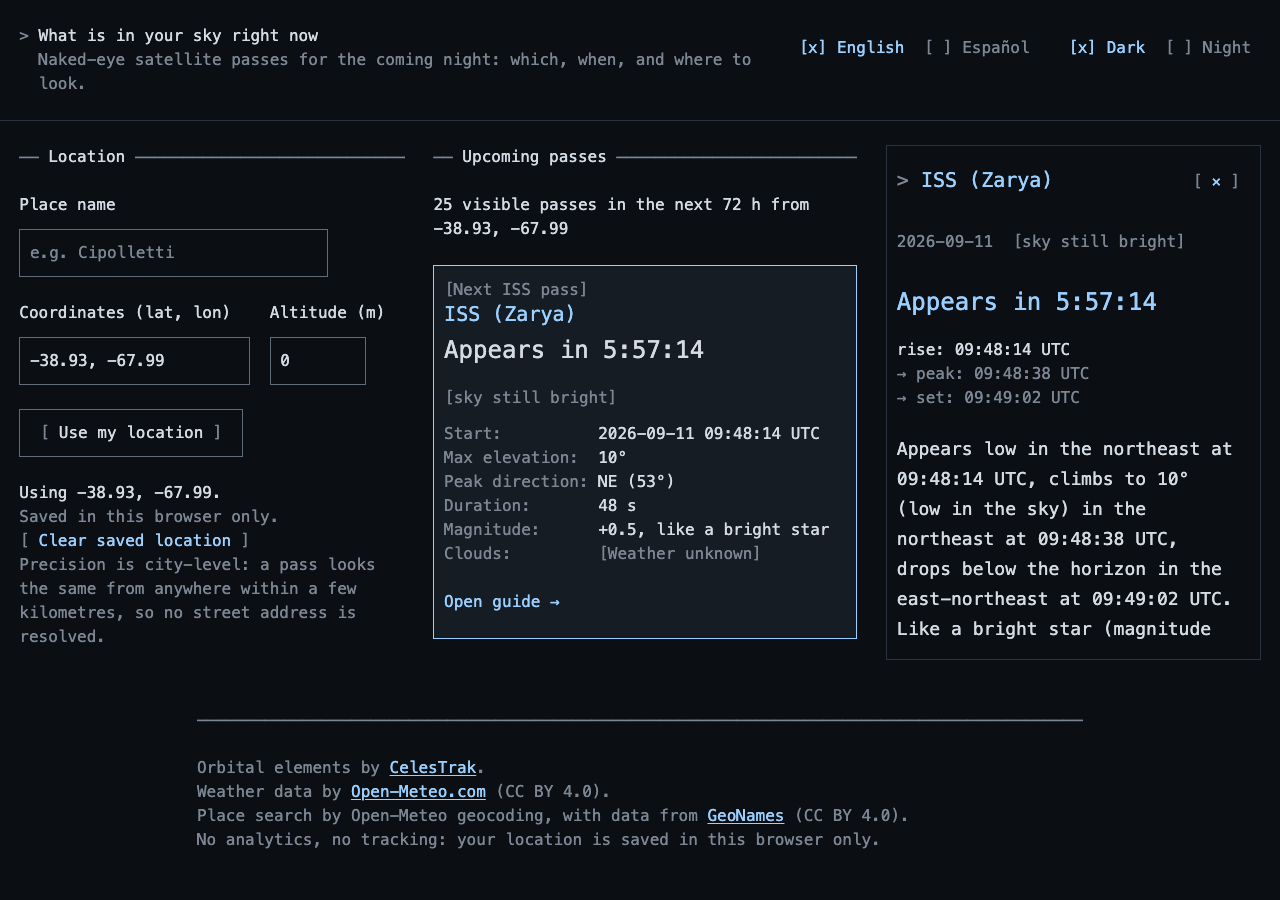
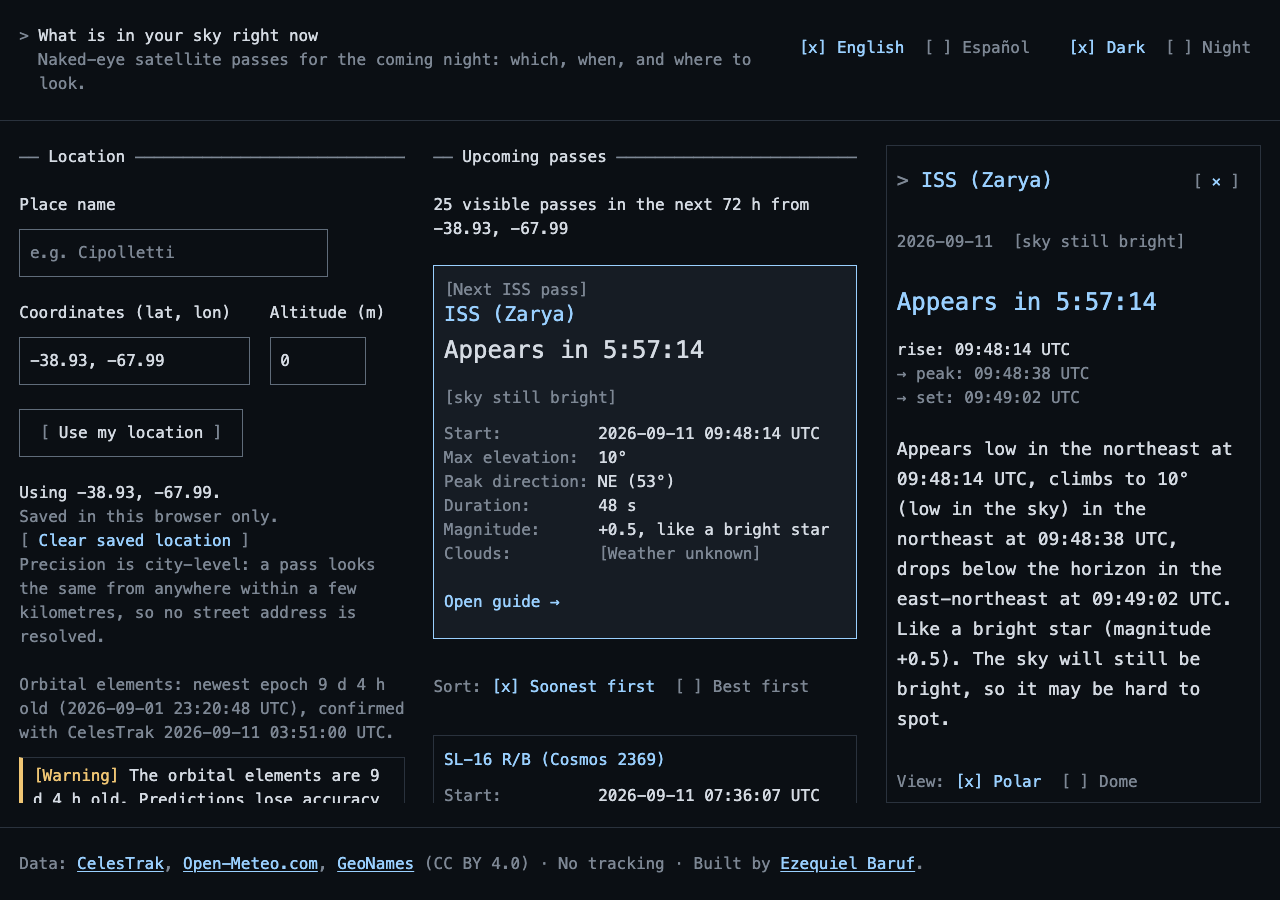
R23: the wide footer is one row, and it says who made the page (D-120, FR-X-2)
D-119's shell holds the footer on screen for as long as a pass is open, and
four rows of provenance is not what that space is for — on a 900 px viewport
they were most of what the three columns lost. The footer now has two forms,
picked by the layout the way `PassDetail` picks its two shells (D-72):
compact keeps the four sentences at the bottom of a page that scrolls, wide
says the same thing in one row.

What the short form does not drop is the attribution. Every provider is still
named and still linked, and CC BY 4.0 is still called by name — that is the
condition the geocoding data is used under, not decoration. The row also
carries the author's credit, linked to the profile, which is new in FR-X-2:
until now it named only the data.

Two smaller things came with it. `margin: 0 auto` centres the 80-cell frame
in compact and is a no-op at wide in normal flow — but inside D-119's grid an
auto margin turns off the stretch a grid item gets by default, so the footer
shrank to its own text and sat in the middle of the page. That was a
regression from the previous commit and is why this was noticed. And the
character rule above the credits is a fixed 92-character string, the old
frame's width, which stops short of a viewport that no longer has a frame; at
wide it is the 1 px line in the rule colour that every card is already drawn
with, which FR-X-6 allows and which is as wide as what contains it.

Tests: the footer's own suite gains the credit, the one-row form with every
[…]

Changed region(s): [[0.0, 0.7156, 0.9375, 0.9644], [0.75, 0.84, 0.8125, 0.8711], [0.8438, 0.84, 0.875, 0.8711]]

diff --git a/src/ui/components/common/Footer.test.tsx b/src/ui/components/common/Footer.test.tsx
@@ -1,11 +1,18 @@
-/** TASKS R12 (FR-X-2): the footer carries the three attribution sentences, each source linked, and the privacy note. R17: in whichever language is active, with the provider names untranslated (FR-I18N-6). */
-import { render, screen } from '@testing-library/react';
+/** TASKS R12 (FR-X-2): the footer carries the three attribution sentences, each source linked, and the privacy note. R17: in whichever language is active, with the provider names untranslated (FR-I18N-6). R23 (D-120): and the author's credit, in both of the two forms the layout picks between. */
+import { act, render, screen } from '@testing-library/react';
 import { axe } from 'jest-axe';
-import { describe, expect, it } from 'vitest';
+import { afterEach, describe, expect, it } from 'vitest';
 import { en } from '../../../i18n/en';
 import { es } from '../../../i18n/es';
 import { I18nProvider } from '../../../i18n/useT';
+import { stubMatchMedia, type MatchMediaStub } from '../../../../tests/support/matchMedia';
 import { Footer } from './Footer';
+
+let media: MatchMediaStub | null = null;
+afterEach(() => {
+  media?.restore();
+  media = null;
+});
 
 const sentence = (text: { before: string; link: string; after: string }): string => `${text.before}${text.link}${text.after}`;
 
@@ -18,6 +25,9 @@ describe('<Footer>', () => {
     expect(screen.getByRole('link', { name: 'CelesTrak' })).toHaveAttribute('href', 'https://celestrak.org/');
     expect(screen.getByRole('link', { name: 'Open-Meteo.com' })).toHaveAttribute('href', 'https://open-meteo.com/');
     expect(screen.getByRole('link', { name: 'GeoNames' })).toHaveAttribute('href', 'https://www.geonames.org/');
+    // D-120: whose page this is, linked to the profile.
+    expect(footer).toHaveTextContent(sentence(en.footer.credit));
+    expect(screen.getByRole('link', { name: 'Ezequiel Baruf' })).toHaveAttribute('href', 'https://github.com/CipoBaruf');
     expect(await axe(container)).toHaveNoViolations();
   });
 
@@ -32,6 +42,36 @@ describe('<Footer>', () => {
     expect(footer).toHaveTextContent(es.footer.privacy);
     expect(footer).not.toHaveTextContent(en.footer.privacy);
     expect(screen.getByRole('link', { name: 'CelesTrak' })).toHaveAttribute('href', 'https://celestrak.org/');
+  });
+
+  // D-120: wide says the same thing in one row, and may not drop the attribution doing it.
+  it('condenses to one row when the layout is wide, every source still named and linked', async () => {
+    media = stubMatchMedia(1280);
+    const { container } = render(<Footer />);
+    const footer = screen.getByRole('contentinfo');
+    expect(footer).toHaveAttribute('data-form', 'short');
+    expect(footer.querySelectorAll('p')).toHaveLength(1);
+    for (const name of ['CelesTrak', 'Open-Meteo.com', 'GeoNames', 'Ezequiel Baruf']) {
+      expect(screen.getByRole('link', { name })).toBeInTheDocument();
+    }
+    expect(screen.getByRole('link', { name: 'Ezequiel Baruf' })).toHaveAttribute('href', 'https://github.com/CipoBaruf');
+    // The licence the geocoding data is used under is still named.
+    expect(footer).toHaveTextContent('CC BY 4.0');
+    expect(footer).toHaveTextContent(en.footer.short.privacy);
+    // The four long sentences are gone, not merely hidden.
+    expect(footer).not.toHaveTextContent(en.footer.privacy);
+    expect(await axe(container)).toHaveNoViolations();
+  });
+
+  it('goes back to the four sentences when the viewport narrows again', () => {
+    media = stubMatchMedia(1280);
+    render(<Footer />);
+    expect(screen.getByRole('contentinfo')).toHaveAttribute('data-form', 'short');
+    act(() => {
+      media?.setWidth(390);
+    });
+    expect(screen.getByRole('contentinfo')).toHaveAttribute('data-form', 'full');
+    expect(screen.getByRole('contentinfo')).toHaveTextContent(en.footer.privacy);
   });
 
   it('is inert while the detail sheet is up', () => {

diff --git a/src/ui/components/common/Footer.tsx b/src/ui/components/common/Footer.tsx
@@ -1,5 +1,6 @@
 import type { LinkedText } from '../../../i18n/messages';
 import { useT } from '../../../i18n/useT';
+import { useLayoutMode } from '../../hooks/useLayoutMode';
 import styles from './Footer.module.css';
 
 /**
@@ -12,11 +13,22 @@ import styles from './Footer.module.css';
  * them are never translated (FR-I18N-6). The links are navigation targets,
  * never fetched (FR-X-3: the app connects to CelesTrak and Open-Meteo only,
  * see `tests/deploy/headers.test.ts`).
+ *
+ * R23 (D-120): two forms of the same credits, chosen by the layout the way
+ * `PassDetail` chooses its two shells (D-72). Compact keeps the four
+ * sentences at the bottom of a page that scrolls. Wide says the same thing in
+ * one row, because D-119's shell holds the footer on screen for as long as a
+ * pass is open and four rows of provenance are not what that space is for.
+ * What the short form may not drop is the attribution itself: every provider
+ * is still named and still linked, and the CC BY 4.0 licence is still called
+ * by name — that is the condition the data is used under, not decoration.
  */
 export const ATTRIBUTION_URLS = {
   celestrak: 'https://celestrak.org/',
   openMeteo: 'https://open-meteo.com/',
   geonames: 'https://www.geonames.org/',
+  /** Not an attribution: whose page this is (FR-X-2, amended). */
+  author: 'https://github.com/CipoBaruf',
 } as const;
 
 export interface FooterProps {
@@ -24,24 +36,54 @@ export interface FooterProps {
   inert?: boolean;
 }
 
-function Attribution({ text, href }: { text: LinkedText; href: string }) {
+function Linked({ text, href }: { text: LinkedText; href: string }) {
   return (
-    <p className={styles.line}>
+    <>
       {text.before}
       <a href={href}>{text.link}</a>
       {text.after}
+    </>
+  );
+}
+
+function Attribution({ text, href }: { text: LinkedText; href: string }) {
+  return (
+    <p className={styles.line}>
+      <Linked text={text} href={href} />
     </p>
   );
 }
 
 export function Footer({ inert = false }: FooterProps) {
   const t = useT();
+  const wide = useLayoutMode() === 'wide';
+
+  if (wide) {
+    return (
+      <footer inert={inert} className={styles.footer} data-form="short">
+        <p className={styles.line}>
+          {t.footer.short.sources}{' '}
+          <a href={ATTRIBUTION_URLS.celestrak}>CelesTrak</a>
+          {', '}
+          <a href={ATTRIBUTION_URLS.openMeteo}>Open-Meteo.com</a>
+          {', '}
+          <a href={ATTRIBUTION_URLS.geonames}>GeoNames</a> {t.footer.short.licence}
+          <span className={styles.dot}>·</span>
+          {t.footer.short.privacy}
+          <span className={styles.dot}>·</span>
+          <Linked text={t.footer.credit} href={ATTRIBUTION_URLS.author} />
+        </p>
+      </footer>
+    );
+  }
+
   return (
-    <footer inert={inert} className={styles.footer}>
+    <footer inert={inert} className={styles.footer} data-form="full">
       <Attribution text={t.footer.celestrak} href={ATTRIBUTION_URLS.celestrak} />
       <Attribution text={t.footer.openMeteo} href={ATTRIBUTION_URLS.openMeteo} />
       <Attribution text={t.footer.geonames} href={ATTRIBUTION_URLS.geonames} />
       <p className={styles.line}>{t.footer.privacy}</p>
+      <Attribution text={t.footer.credit} href={ATTRIBUTION_URLS.author} />
     </footer>
   );
 }

diff --git a/tests/e2e/desktop.spec.ts b/tests/e2e/desktop.spec.ts
@@ -148,6 +148,23 @@ test('wide: two columns, the guide beside a live list, Escape and the hash (FR-D
   expect(Math.abs(leftNow.height - rightNow.height)).toBeLessThanOrEqual(1);
   expect(leftNow.y + leftNow.height).toBeLessThanOrEqual(WIDE.height + 1);
 
+  // D-120: the footer is one row, left-aligned with the columns above it (an
+  // auto margin inside the shell's grid had it shrink to its text and centre),
+  // and it still names and links every source it is used under.
+  const footer = page.getByRole('contentinfo');
+  await expect(footer).toHaveAttribute('data-form', 'short');
+  expect(await footer.locator('p').count()).toBe(1);
+  // The line itself, not the footer's border box: both carry the same two
+  // cells of side padding, and it is the text that has to line up.
+  const [footerLine, leftBox2] = await Promise.all([footer.locator('p').boundingBox(), page.getByTestId('col-left').boundingBox()]);
+  if (!footerLine || !leftBox2) throw new Error('the footer is not laid out');
+  expect(Math.abs(footerLine.x - leftBox2.x)).toBeLessThanOrEqual(1);
+  for (const name of ['CelesTrak', 'Open-Meteo.com', 'GeoNames']) {
+    await expect(footer.getByRole('link', { name })).toBeVisible();
+  }
+  await expect(footer).toContainText('CC BY 4.0');
+  await expect(footer.getByRole('link', { name: 'Ezequiel Baruf' })).toHaveAttribute('href', 'https://github.com/CipoBaruf');
+
   // The guide's body scrolls itself, and its head stays where it is while it does.
   const body = panel.getByTestId('guide-body');
   // It opens at the top and its first line is whole: nothing inside may start

diff --git a/src/ui/components/common/Footer.module.css b/src/ui/components/common/Footer.module.css
@@ -16,3 +16,26 @@
 .line {
   margin: 0;
 }
+
+/* R23 (D-120): the short form is one row that wraps rather than overflows —
+   the Spanish sentence is the longer of the two and 960 px is the narrowest
+   wide viewport. The separators are their own elements so that the spaces
+   around them survive the wrap. */
+.footer[data-form='short'] {
+  padding-bottom: var(--row);
+  /* The character rule above is a fixed 92-character string, which was the
+     80-cell frame's width and stops short of a viewport that no longer has
+     one. FR-X-6 takes either a plain-character border or a box-drawing one,
+     and the 1 px line in the rule colour is the box-drawing weight every card
+     on the page is already drawn at (`global.css`) — the difference is that
+     it is as wide as whatever contains it. */
+  border-top: 1px solid var(--rule);
+}
+
+.footer[data-form='short']::before {
+  content: none;
+}
+
+.dot {
+  padding: 0 var(--cell);
+}

diff --git a/src/i18n/en.ts b/src/i18n/en.ts
@@ -297,5 +297,14 @@ export const en = {
     openMeteo: { before: 'Weather data by ', link: 'Open-Meteo.com', after: ' (CC BY 4.0).' } satisfies LinkedText,
     geonames: { before: 'Place search by Open-Meteo geocoding, with data from ', link: 'GeoNames', after: ' (CC BY 4.0).' } satisfies LinkedText,
     privacy: 'No analytics, no tracking: your location is saved in this browser only.',
+    credit: { before: 'Built by ', link: 'Ezequiel Baruf', after: '.' } satisfies LinkedText,
+    /* R23 (D-120): the wide footer says the same in one row. The provider
+       names carry the credit on their own, the licence is still named, and
+       the privacy note keeps its subject. */
+    short: {
+      sources: 'Data:',
+      licence: '(CC BY 4.0)',
+      privacy: 'No tracking',
+    },
   },
 };

diff --git a/src/i18n/es.ts b/src/i18n/es.ts
@@ -274,5 +274,11 @@ export const es: Messages = {
     openMeteo: { before: 'Datos meteorológicos de ', link: 'Open-Meteo.com', after: ' (CC BY 4.0).' },
     geonames: { before: 'Búsqueda de lugares por la geocodificación de Open-Meteo, con datos de ', link: 'GeoNames', after: ' (CC BY 4.0).' },
     privacy: 'Sin analítica ni rastreo: la ubicación se guarda solo en este navegador.',
+    credit: { before: 'Hecho por ', link: 'Ezequiel Baruf', after: '.' },
+    short: {
+      sources: 'Datos:',
+      licence: '(CC BY 4.0)',
+      privacy: 'Sin rastreo',
+    },
   },
 };

diff --git a/src/ui/styles/global.css b/src/ui/styles/global.css
@@ -58,6 +58,12 @@ main {
   main,
   footer {
     max-width: none;
+    /* The `margin: 0 auto` above centres the 80-cell frame in compact. Here
+       there is no frame to centre, and inside D-119's grid an auto margin is
+       not a no-op: it turns off the stretch a grid item gets by default, so
+       the footer shrank to its own text and sat in the middle of the page.
+       Wide is left-aligned like the columns above it. */
+    margin-inline: 0;
   }
 
   /* R23 (D-119). With a pass open the page is a shell exactly one viewport

diff --git a/PLAN.md b/PLAN.md
@@ -292,6 +292,7 @@ These plan SPEC v1.0 (V1-1..V1-11). Nothing here is implemented yet; each decisi
 - **D-117 — The compact sheet is portaled to the body, so that one component can pick both shells.** D-72 asks for one guide component with two wrappers, and FR-DESK-3 puts the wide one *inside* the right column — but the compact sheet needs the page around it to be `inert`, and a sheet rendered inside `main` would be inert with it. `PassDetail` is therefore rendered once, in the right column, and `createPortal`s its sheet to `document.body` when the layout is compact; the panel renders in place when it is wide. Nothing about the sheet changes — it was already `position: fixed`, so its box never depended on where it sat in the DOM — and `App` goes on marking header, main and footer inert around it. One consequence for tests: RTL's `container` no longer holds the sheet, so the three `axe` runs that cover it take `document.body` instead, which is strictly more of the page than they saw before.
 - **D-118 — The wide guide is a labelled region, not a dialog.** The compact sheet is `role="dialog" aria-modal="true"` because it covers the page: nothing behind it can be reached, and that is what the role promises. The wide panel promises the opposite — FR-DESK-3's whole point is that the list stays beside it, scrollable and clickable — so calling it a dialog would tell a screen-reader user the page was blocked when it is not, and a non-modal `dialog` is a distinction almost nothing conveys. It is a `<section>` with a label, like the three regions already on the screen; `<aside>` would be the better tag but axe's own best-practice rule rejects a complementary landmark nested in `main`. The label is "Guide: <name>" rather than the name alone, because the card for the same pass is still on screen one column to the left and two regions with one name is a worse answer than a longer one. Focus still moves to the heading on open and `Esc` still closes: those belong to the guide, not to the shell, and `PassDetail` owns them for both.
 - **D-119 — With a pass open the wide page is one viewport high, and each pane scrolls itself.** FR-DESK-3 says the list stays scrollable beside the guide, and the first implementation gave the list a `max-height` of 34 rows and the guide none at all. That is two scrollbars that do not agree: the list's, fixed at 816 px, and the page's, driven by whichever of the three columns is longest — usually the guide, which carries the countdown, the chart and the numbers. The reader scrolls the page to reach the bottom of the guide and the list scrolls out from under them; the left column, packed to the top by `align-items: start`, leaves a screen of dead space behind. A cap written in rows is also right at exactly one viewport height and wrong at every other: 816 px overshoots a 768 px laptop, so the page scrolled *underneath* a list that was already scrolling, and wastes the bottom of a tall screen. So the height comes from the viewport instead. `#root` becomes a `100dvh` grid of header, main and footer whenever a pass is open, `main` stretches both columns to its middle row, and the three panes that can outgrow it — the left column, the list, and the guide's body under a head that stays — each carry their own `overflow-y`. Three consequences worth naming. The shell is scoped to `:has([data-guide='open'])`, because with no pass open the page is an ordinary long document and should scroll like one; nothing about compact changes, and the sheet is still `position: fixed` over a page whose scroll it locks (D-117). `100dvh` and not `100vh`: on a phone in landscape past the breakpoint the dynamic unit is the one that does not hide the footer behind the browser chrome. And the guide's head is pinned rather than scrolled away, because the close control is what someone reaches for after reading to the bottom of a long guide.
+- **D-120 — The wide footer is one row, and it says who made the page.** D-119's shell holds the footer on screen for as long as a pass is open, and four rows of provenance is not what that space is for — on a 900 px viewport they were most of what the three columns lost. So the footer has two forms, chosen by the layout the way `PassDetail` chooses its two shells (D-72): compact keeps the four sentences at the bottom of a page that scrolls, and wide says the same thing in one row. What the short form may not drop is the attribution itself. Every provider is still named and still linked, and CC BY 4.0 is still called by name: that is the condition the geocoding data is used under, not decoration, and a footer that credits nobody to save a row would be the one change here that is not ours to make. The row also carries the author's credit, linked to the profile — new in FR-X-2, which until now named only the data. Two smaller things came with it. `margin: 0 auto` centres the 80-cell frame in compact and is a no-op at wide in normal flow, but inside D-119's grid an auto margin turns off the stretch a grid item gets by default: the footer shrank to its own text and sat in the middle of the page, which is how this was noticed. And the character rule above the credits is a fixed 92-character string — the 80-cell frame's width — which stops short of a viewport that no longer has a frame; at wide it is the 1 px line in the rule colour that every card on the page is already drawn with, which FR-X-6 allows in as many words and which is as wide as whatever contains it.
 
 ---
 
@@ -1120,7 +1121,7 @@ No i18n, routing, date or state dependency is added for v1: language is two type
 | FR-X-5 | component tests with `jest-axe`; chart text duplication in `PassNumbers.tsx` |
 | Spec §5.6 clock skew | **Not in MVP** (D-11) |
 | **v1** — FR-I18N-1..6 | `src/i18n/*` (D-69), `lib/timeFormat.ts`, `lib/phrases.ts` (returns keys, not sentences), `ui/components/common/LanguageToggle.tsx`, `main.tsx` (D-70) |
-| FR-DESK-1..4 | `ui/styles/global.css` + `ui/App.module.css` + `tests/styles` (D-71), `lib/layout.ts` + `ui/hooks/useLayoutMode.ts` (D-116), `ui/App.tsx`, `ui/components/guide/GuidePanel.tsx` (D-72, D-117, D-118, D-119), `lib/shortcuts.ts`, `ui/components/common/ShortcutsOverlay.tsx` (D-73) |
+| FR-DESK-1..4 | `ui/styles/global.css` + `ui/App.module.css` + `tests/styles` (D-71), `lib/layout.ts` + `ui/hooks/useLayoutMode.ts` (D-116), `ui/App.tsx`, `ui/components/guide/GuidePanel.tsx` (D-72, D-117, D-118, D-119), `ui/components/common/Footer.tsx` (D-120), `lib/shortcuts.ts`, `ui/components/common/ShortcutsOverlay.tsx` (D-73) |
 | FR-DESK-5 | `docs/mockups/` (the owner-approved reference), `visual-review` captures at 1280 px |
 | FR-DOME-1..7 | `dome/camera.ts` (`layoutFor` from width and height), `dome/palette.ts`, `dome/domeGeometry.ts`, `dome/SkyDome.tsx`, `polar/SkyPolar.tsx` (same markers and palette) — §8.7 |
 | FR-DOME-8 | `spike/dome-composition/` and `docs/dome-composition/` first; then `dome/domeLayers.ts` + the two scenes in `SkyDome.tsx` (D-74) |

diff --git a/SPEC.md b/SPEC.md
@@ -249,7 +249,7 @@ A pass is **visible** when, for a contiguous interval of time, all of the follow
 
 - **FR-X-1** Mobile-first responsive layout; dark theme by default; optional red-tint "night vision" mode (v1, specified in §4.14). *(amended v1)* "Responsive" includes the wide layout of §4.8.
 - **FR-X-6** **Visual identity: monospace / terminal aesthetic across the whole UI** — a monospace typeface everywhere, character-grid-aligned layout where practical, box-drawing or plain-character borders, restrained colour on a dark ground, no photographic imagery. The ASCII sky dome must read as a natural part of the interface, not a widget dropped into a conventional web page.
-- **FR-X-2** Every external data source MUST be credited in a footer (CelesTrak; Open-Meteo for weather and geocoding, whose geocoding data derives from GeoNames) as their terms require. OpenStreetMap/Nominatim attribution is added in v1 when the proxy introduces it.
+- **FR-X-2** Every external data source MUST be credited in a footer (CelesTrak; Open-Meteo for weather and geocoding, whose geocoding data derives from GeoNames) as their terms require. OpenStreetMap/Nominatim attribution is added in v1 when the proxy introduces it. The footer MUST also name who made the page, linked to their profile. At wide widths it says all of this in one row rather than four (D-120): every source still named, still linked, and still under the licence it is used with.
 - **FR-X-3** No analytics or tracking in MVP beyond anonymous, aggregate error logging.
 - **FR-X-4** The app MUST function offline for the already-computed pass list, and MUST be able to recompute from IndexedDB-cached elements for a new location without network (weather then shows "unknown"). *(amended v1, V1-6)* The app shell itself MUST load offline through a service worker, and the stored forecast stays usable offline past its TTL with its age shown (§4.11). PWA install is v1 (FR-OFF-6).
 - **FR-X-5** Accessibility: WCAG 2.1 AA colour contrast; chart information duplicated in text; keyboard navigable.
